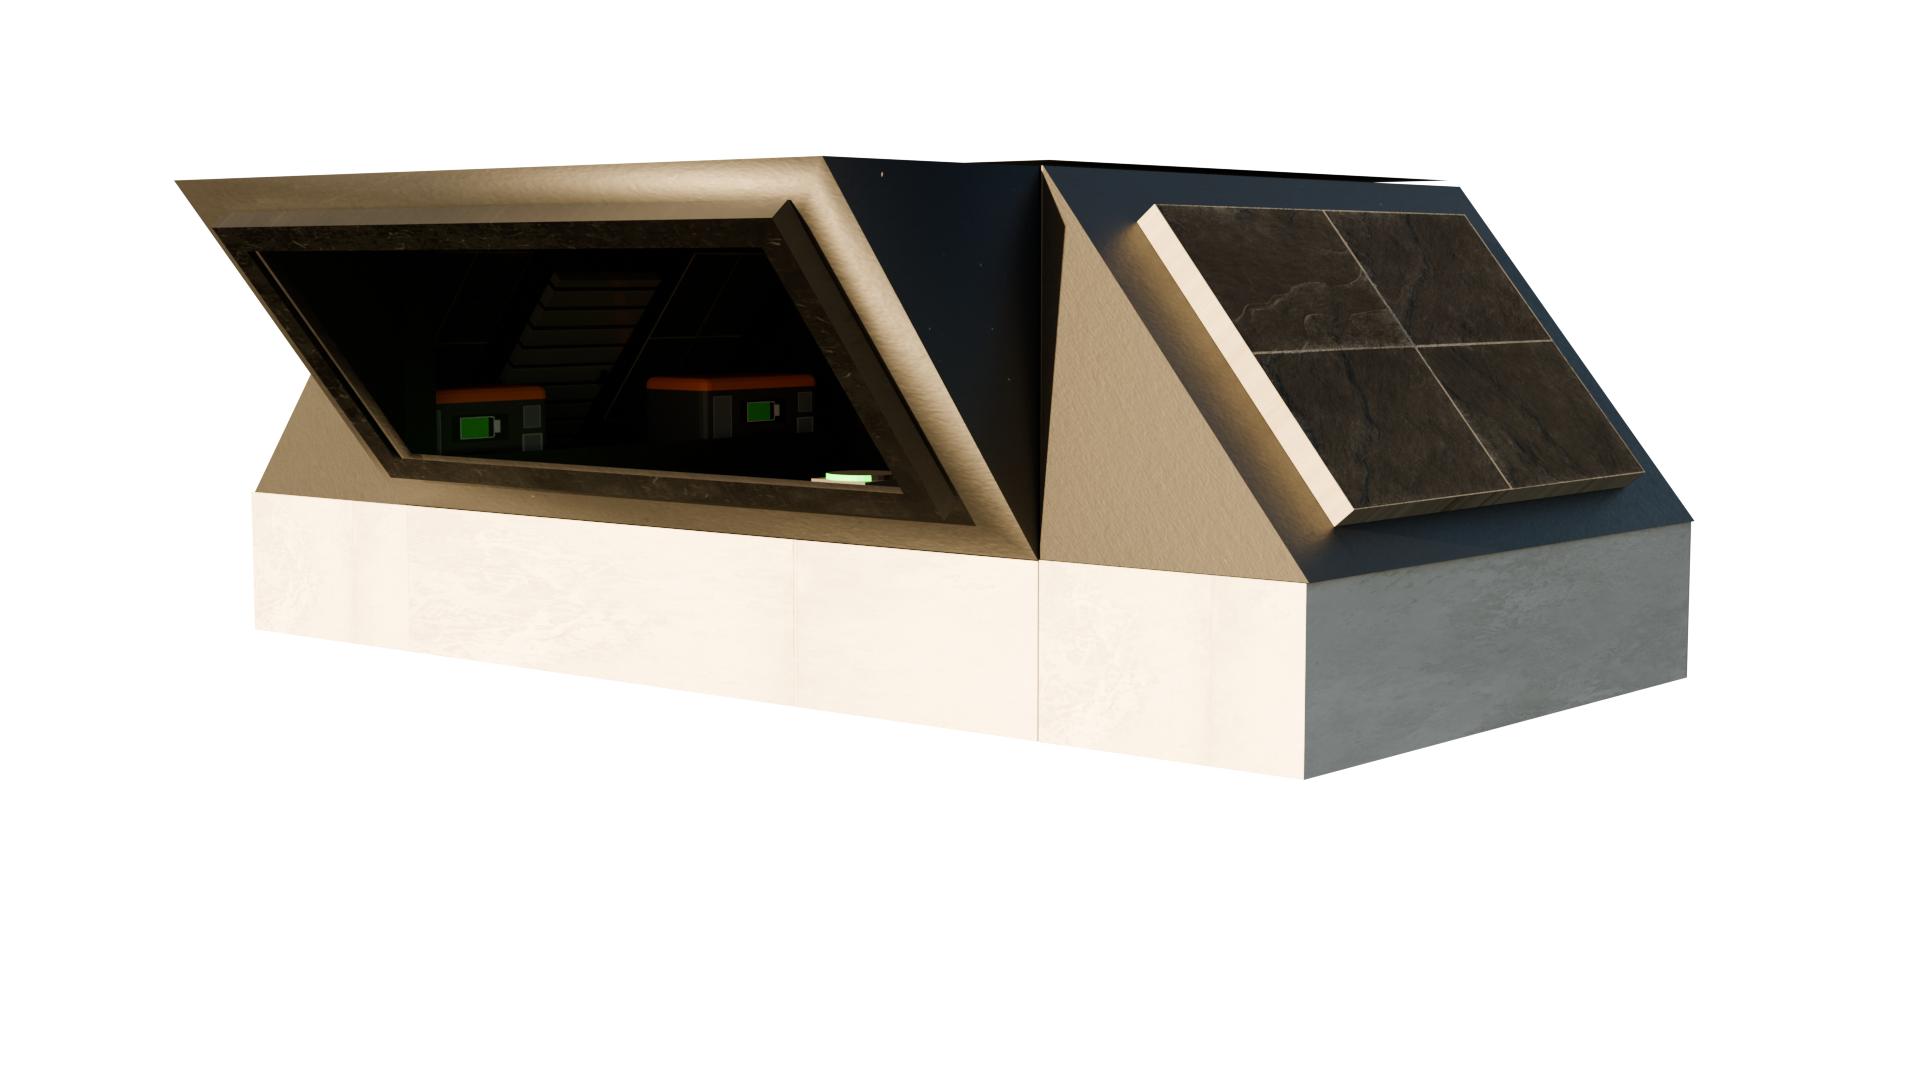
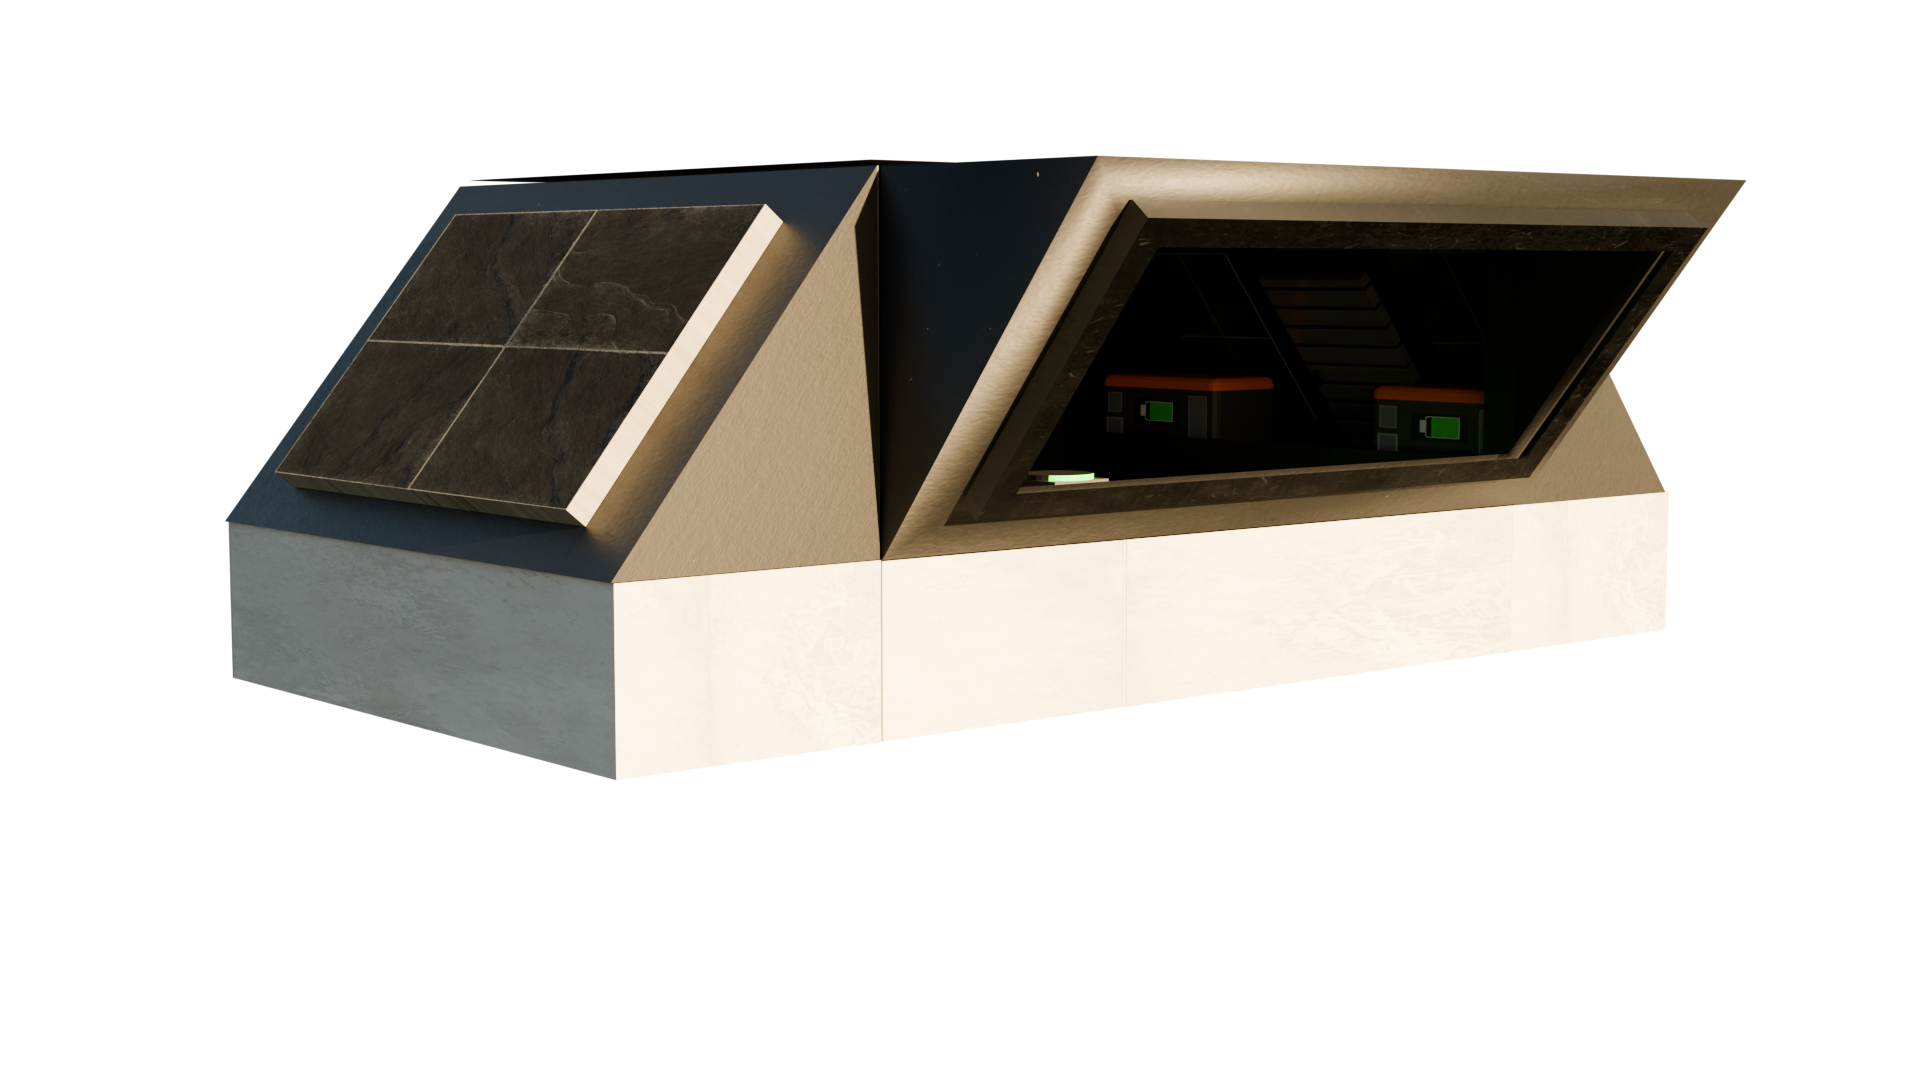
.

diff --git a/inner-page.html b/inner-page.html
@@ -62,23 +62,28 @@
 
     <!-- ======= Breadcrumbs Section ======= -->
     <section class="breadcrumbs">
-      
+      <div class="section-title" >
+        <h2>Drone Station Model</h2>
+      </div>
       <div class="container">
         <div class="row">
-          <h3><img src="assets/img/jajco.gif" alt="Jajco"></h3>
-        <div id="carouselExampleControls" class="carousel carousel-dark slide carousel-fade col-12" data-bs-ride="carousel">
+          
+        <div id="carouselExampleControls" class="carousel carousel-dark slide col-12" data-bs-ride="carousel">
 
          
 
           <div class="carousel-inner" id="jajco30">
             <div class="carousel-item active">
-              <img src="https://ireland.apollo.olxcdn.com/v1/files/6nvs7fsmen511-PL/image;s=1000x700" class="d-block w-100" alt="...">
+              <img src="assets/img/DroneModel1.png" class="d-block w-100" alt="...">
             </div>
             <div class="carousel-item">
-              <img src="https://ireland.apollo.olxcdn.com/v1/files/y6g7j6vvpjf91-PL/image;s=1000x700" class="d-block w-100" alt="...">
+              <img src="assets/img/DroneModel2.png" class="d-block w-100" alt="...">
             </div>
             <div class="carousel-item">
-              <img src="https://ireland.apollo.olxcdn.com/v1/files/eyJmbiI6InVubjA4bG4ybG0zMS1PVE9NT1RPUEwiLCJ3IjpbeyJmbiI6IndnNGducXA2eTFmLU9UT01PVE9QTCIsInMiOiIxNiIsInAiOiIxMCwtMTAiLCJhIjoiMCJ9XX0.wJL0IcBLU7dGaLMkaOf-vUuLBdIRP-skUH-IPr4RAfY/image;s=0x450;q=100" class="d-block w-100" alt="mondeo">
+              <img src="assets/img/DroneModel3.png" class="d-block w-100" alt="mondeo">
+            </div>
+            <div class="carousel-item">
+              <img src="assets/img/DroneModel4.png" class="d-block w-100" alt="mondeo">
             </div>
           </div>
           <button class="carousel-control-prev" type="button" data-bs-target="#carouselExampleControls" data-bs-slide="prev">
@@ -144,7 +149,7 @@
 
   <!-- Template Main JS File -->
   <script src="assets/js/main.js"></script>
-  <script>
+  <!-- <script>
     let b=0;
     for(let i=0; i<10;i++){
       
@@ -172,7 +177,7 @@
      let jd=document.getElementsByClassName('carousel-item')[i+3];
       jd.appendChild(jajco);
     }
-</script>
+</script> -->
 </body>
 
 </html>

diff --git a/assets/css/style.css b/assets/css/style.css
@@ -910,5 +910,5 @@ line-height: 1.4em;
 .carousel-item img{
   width: 5em;
   height: 30em;
-  
+  filter:drop-shadow(1px 1px 0.3rem whitesmoke)
 }
